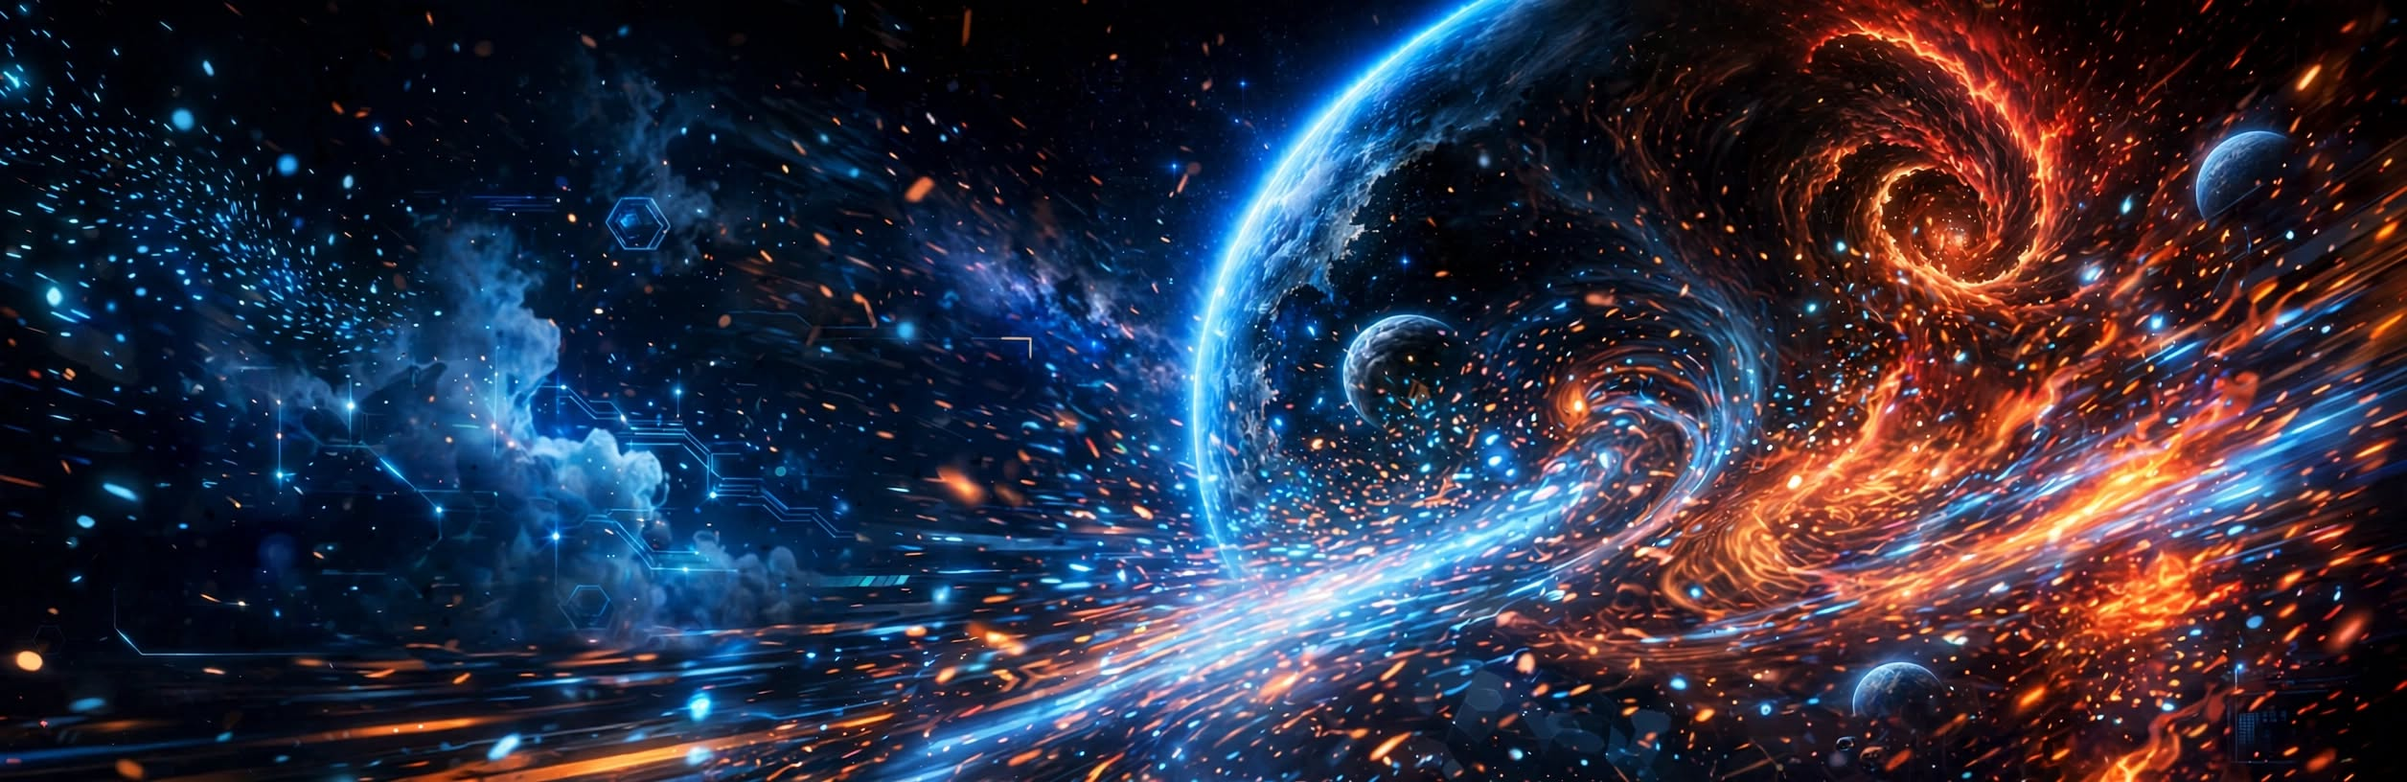
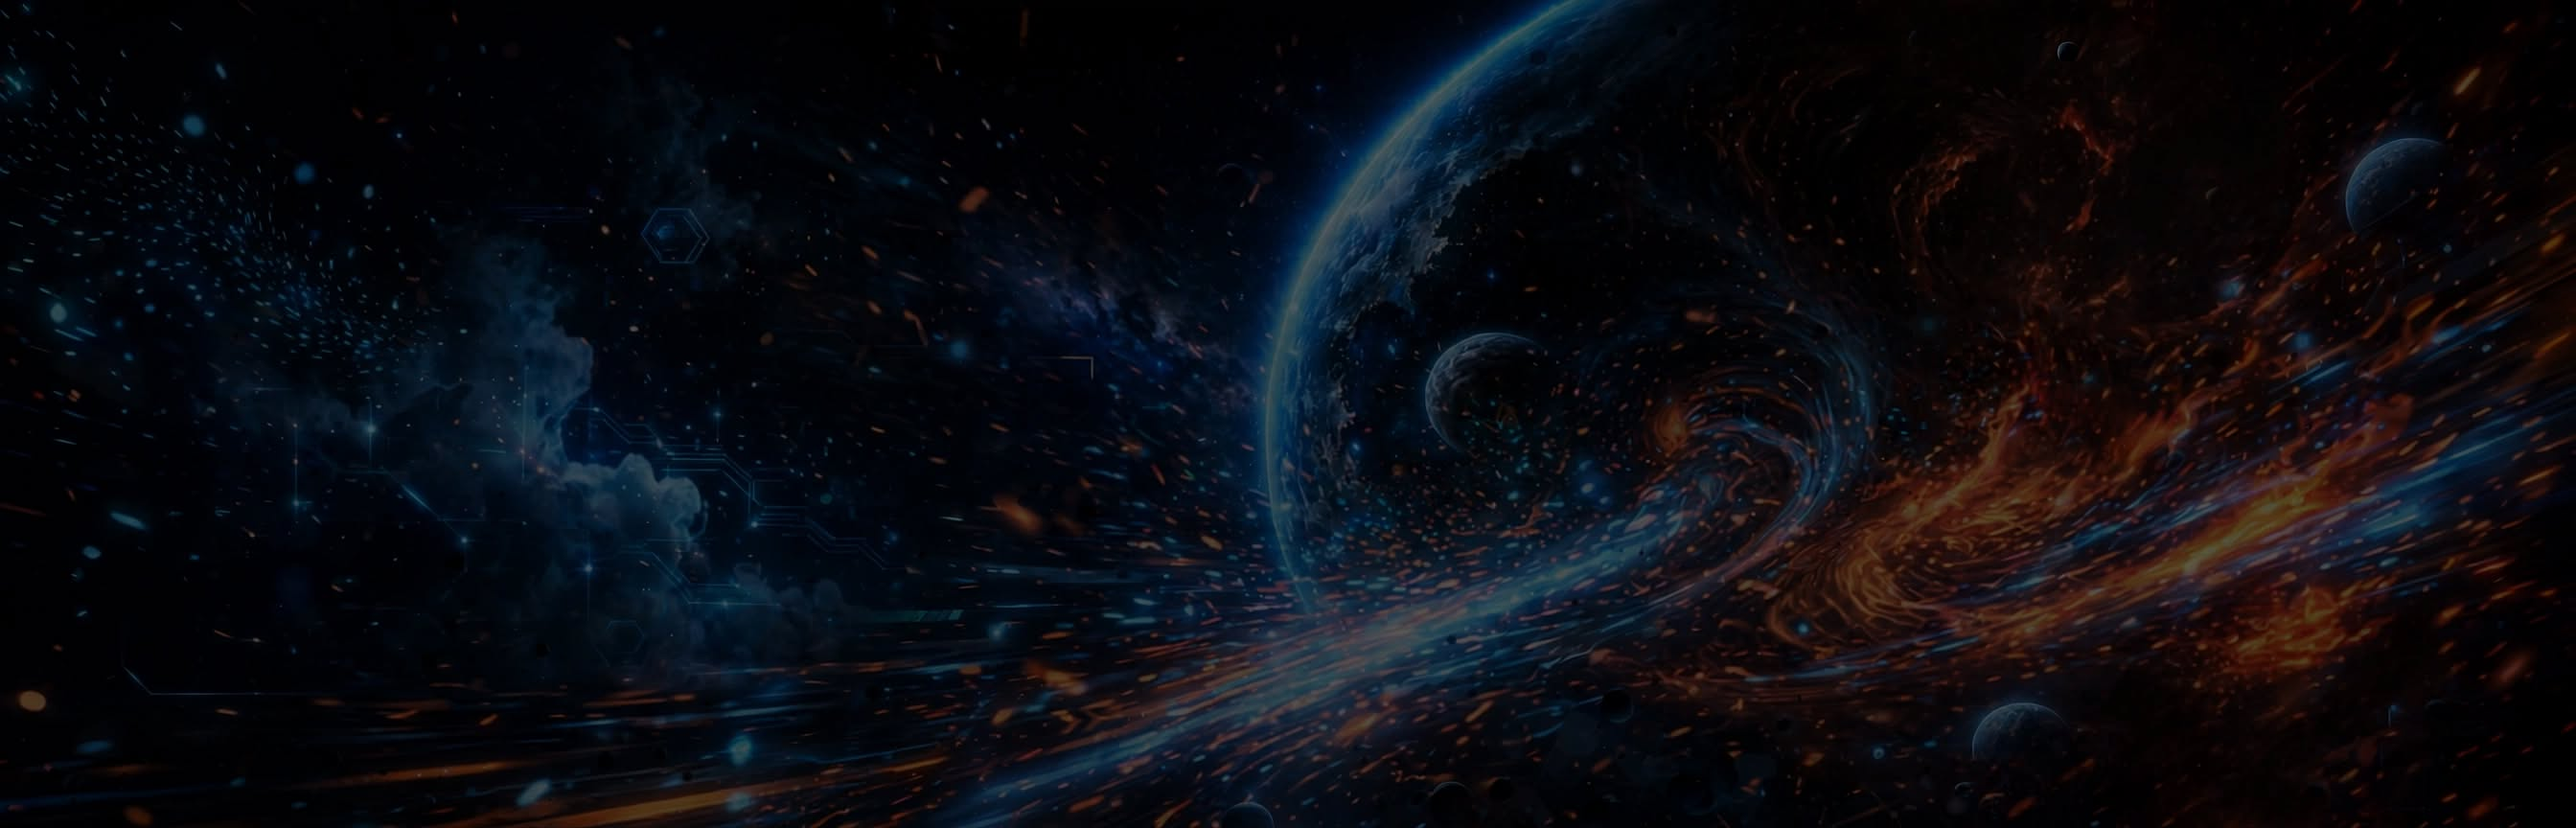
t

diff --git a/_layouts/default.html b/_layouts/default.html
@@ -12,9 +12,13 @@
   {% feed_meta %}
 </head>
 <body class="{% if page.url == '/' or page.url == '/index.html' %}is-home{% endif %}">
-  <div id="particles-js" style="position:fixed; width:100%; height:100%; top:0; left:0; z-index:-1; pointer-events:none;"></div>
+  <div id="particles-js" style="position:fixed; width:100%; height:100%; top:0; left:0; z-index:1; pointer-events:none;"></div>
 
   {% include navigation.html %}
+
+  {% if page.url == '/' or page.url == '/index.html' %}
+    {% include hero.html %}
+  {% endif %}
 
   <main class="page">
     {{ content }}
@@ -69,25 +73,25 @@
         particlesJS('particles-js', {
           particles: {
             number: {
-              value: isMobile ? 30 : 60,
+              value: isMobile ? 50 : 100,
               density: { enable: true, value_area: 800 }
             },
             color: { value: ["#1E90FF", "#00BFFF", "#FF4500", "#FF6347", "#FFD700"] },
             shape: { type: ["circle", "triangle"] },
             opacity: {
-              value: 0.5,
+              value: 0.6,
               random: true,
-              anim: { enable: true, speed: 0.5, opacity_min: 0.1, sync: false }
+              anim: { enable: true, speed: 0.8, opacity_min: 0.1, sync: false }
             },
             size: {
-              value: isMobile ? 2 : 3,
+              value: isMobile ? 2 : 4,
               random: true,
-              anim: { enable: true, speed: 2, size_min: 0.5, sync: false }
+              anim: { enable: true, speed: 3, size_min: 0.5, sync: false }
             },
             line_linked: { enable: false },
             move: {
               enable: true,
-              speed: isMobile ? 0.4 : 0.6,
+              speed: isMobile ? 0.8 : 1.2,
               direction: "none",
               random: true,
               straight: false,
@@ -104,8 +108,8 @@
               resize: true
             },
             modes: {
-              bubble: { distance: 100, size: 5, duration: 2, opacity: 0.8, speed: 3 },
-              push: { particles_nb: 2 }
+              bubble: { distance: 100, size: 6, duration: 2, opacity: 1, speed: 3 },
+              push: { particles_nb: 3 }
             }
           },
           retina_detect: true

diff --git a/assets/css/site.css b/assets/css/site.css
@@ -25,7 +25,7 @@ html,body{margin:0;padding:0}
 body{
   font-family: Inter, "Segoe UI", system-ui, -apple-system, BlinkMacSystemFont, sans-serif;
   color:var(--text);
-  background: #07111f url('../images/Renchise_banner.webp') center center / cover no-repeat fixed;
+  background: #07111f url('../images/bg.webp') center center / cover no-repeat fixed;
   line-height:1.6;
   min-height:100vh;
   text-rendering:optimizeLegibility;
@@ -139,6 +139,8 @@ code{
 
 .page{
   padding: 30px 20px 56px;
+  position: relative;
+  z-index: 5;
 }
 .is-home .page {
   padding-top: 0; /* Let banner be at the top */
@@ -156,30 +158,29 @@ code{
   display: flex;
   flex-direction: column;
   justify-content: flex-end;
+  z-index: 0;
 }
 /* Vignette Overlay for Contrast */
-.banner-container::before {
-  content: "";
-  position: absolute;
-  inset: 0;
-  background: linear-gradient(to bottom, rgba(7, 17, 31, 0.6) 0%, transparent 25%, transparent 75%, rgba(7, 17, 31, 0.6) 100%);
-  z-index: 1;
-  pointer-events: none;
-}
-
-#particles-js {
+#particles-banner {
   position: absolute;
   width: 100%;
   height: 100%;
   top: 0;
   left: 0;
+  z-index: 2; /* In front of artwork (z-index 0) but behind vignette (z-index 1) or content (z-index 5)?
+                Actually artwork is z-index 0, vignette is z-index 1.
+                Let's put particles at z-index 2.
+             */
   pointer-events: none;
-  z-index: 1;
 }
+.banner-container::before {
+  z-index: 3; /* Move vignette on top of banner particles */
+}
+
 
 .banner-content {
   position: relative;
-  z-index: 2;
+  z-index: 5;
   max-width: var(--max);
   margin: 0 auto;
   width: 100%;
@@ -292,15 +293,15 @@ code{
 }
 h1,h2,h3,h4{line-height:1.2; margin:0}
 h1{
-  font-size: clamp(1.8rem, 4vw, 2.8rem);
+  font-size: clamp(1.5rem, 3.5vw, 2.2rem);
   letter-spacing: -.02em;
 }
 h2{
-  font-size: 1.5rem;
+  font-size: 1.3rem;
   letter-spacing: -.01em;
 }
 h3{
-  font-size: 1.15rem;
+  font-size: 1rem;
 }
 .hero-title .accent{
   background: linear-gradient(90deg, var(--gold), var(--blue));

diff --git a/_includes/hero.html b/_includes/hero.html
@@ -1,0 +1,67 @@
+<div class="banner-container">
+  <div id="particles-banner"></div>
+  <div class="banner-content">
+    <div class="banner-actions">
+      <a class="btn" href="{{ site.baseurl }}/vaultstudio/">Explore VaultStudio</a>
+      <a class="btn-secondary" href="{{ site.baseurl }}/vouchlink/">Explore VouchLink</a>
+    </div>
+  </div>
+</div>
+
+<script>
+// Specific foreground particles for the banner
+function initBannerParticles() {
+  if (typeof particlesJS === 'undefined') {
+    setTimeout(initBannerParticles, 100);
+    return;
+  }
+
+  const isMobile = window.innerWidth < 768;
+
+  particlesJS('particles-banner', {
+    particles: {
+      number: {
+        value: isMobile ? 40 : 80,
+        density: { enable: true, value_area: 600 }
+      },
+      color: { value: ["#ffffff", "#3db7ff", "#f5c96a"] },
+      shape: { type: "circle" },
+      opacity: {
+        value: 0.8,
+        random: true,
+        anim: { enable: true, speed: 1, opacity_min: 0.2, sync: false }
+      },
+      size: {
+        value: isMobile ? 3 : 5,
+        random: true,
+        anim: { enable: true, speed: 4, size_min: 1, sync: false }
+      },
+      line_linked: { enable: false },
+      move: {
+        enable: true,
+        speed: 1.5,
+        direction: "none",
+        random: true,
+        straight: false,
+        out_mode: "out",
+        bounce: false
+      }
+    },
+    interactivity: {
+      detect_on: "canvas",
+      events: {
+        onhover: { enable: true, mode: "bubble" },
+        onclick: { enable: true, mode: "push" },
+        resize: true
+      },
+      modes: {
+        bubble: { distance: 150, size: 8, duration: 2, opacity: 1, speed: 3 },
+        push: { particles_nb: 4 }
+      }
+    },
+    retina_detect: true
+  });
+}
+
+document.addEventListener('DOMContentLoaded', initBannerParticles);
+</script>

diff --git a/contact.html b/contact.html
@@ -12,21 +12,19 @@ permalink: /contact.html
   </div>
 </header>
 
-<div class="contact-grid">
-  <div class="contact-profile">
-    <img src="{{ site.baseurl }}/assets/images/Renchise_Profile.webp" alt="Renchise Developer Profile" class="profile-pic-small">
-  </div>
-
-  <div class="contact-info">
-    <div class="panel">
+<div class="panel">
+  <div style="display: flex; align-items: center; gap: 20px; margin-bottom: 20px;">
+    <img src="{{ site.baseurl }}/assets/images/Renchise_Profile.webp" alt="Renchise Developer Profile" class="profile-pic-small" style="margin-bottom: 0;">
+    <div>
       <h3>Contact details</h3>
-      <div class="kv" style="margin-top:12px;">
-        <div class="key">Developer</div><div class="val">Renchise</div>
-        <div class="key">Email</div><div class="val"><a href="mailto:renchise.dev@gmail.com">renchise.dev@gmail.com</a></div>
-        <div class="key">Tester group</div>
-        <div class="val"><a href="https://groups.google.com/g/renchise_closed_testers" target="_blank" rel="noopener">renchise_closed_testers@googlegroups.com</a></div>
-      </div>
+      <p class="muted" style="margin: 0;">Independent Android Developer</p>
     </div>
+  </div>
+  <div class="kv">
+    <div class="key">Developer</div><div class="val">Renchise</div>
+    <div class="key">Email</div><div class="val"><a href="mailto:renchise.dev@gmail.com">renchise.dev@gmail.com</a></div>
+    <div class="key">Tester group</div>
+    <div class="val"><a href="https://groups.google.com/g/renchise_closed_testers" target="_blank" rel="noopener">renchise_closed_testers@googlegroups.com</a></div>
   </div>
 </div>
 

diff --git a/_layouts/app-page.html b/_layouts/app-page.html
@@ -33,17 +33,6 @@ layout: default
   </div>
 
   <div class="contact-info">
-    {% if page.quick_facts %}
-      <div class="grid-3" style="margin-bottom: 24px;">
-        {% for fact in page.quick_facts %}
-          <div class="stat">
-            <div class="value">{{ fact.value }}</div>
-            <div class="label">{{ fact.label }}</div>
-          </div>
-        {% endfor %}
-      </div>
-    {% endif %}
-
     <div class="panel">
       {{ content }}
     </div>

diff --git a/_includes/navigation.html b/_includes/navigation.html
@@ -11,7 +11,6 @@
       <a href="{{ site.baseurl }}/">Home</a>
       <a href="{{ site.baseurl }}/vaultstudio/">VaultStudio</a>
       <a href="{{ site.baseurl }}/vouchlink/">VouchLink</a>
-      <a href="{{ site.baseurl }}/contact.html">Support</a>
       <a href="{{ site.baseurl }}/blog.html">Updates</a>
       <a href="{{ site.baseurl }}/contact.html" class="cta">Test & Contact</a>
     </nav>
